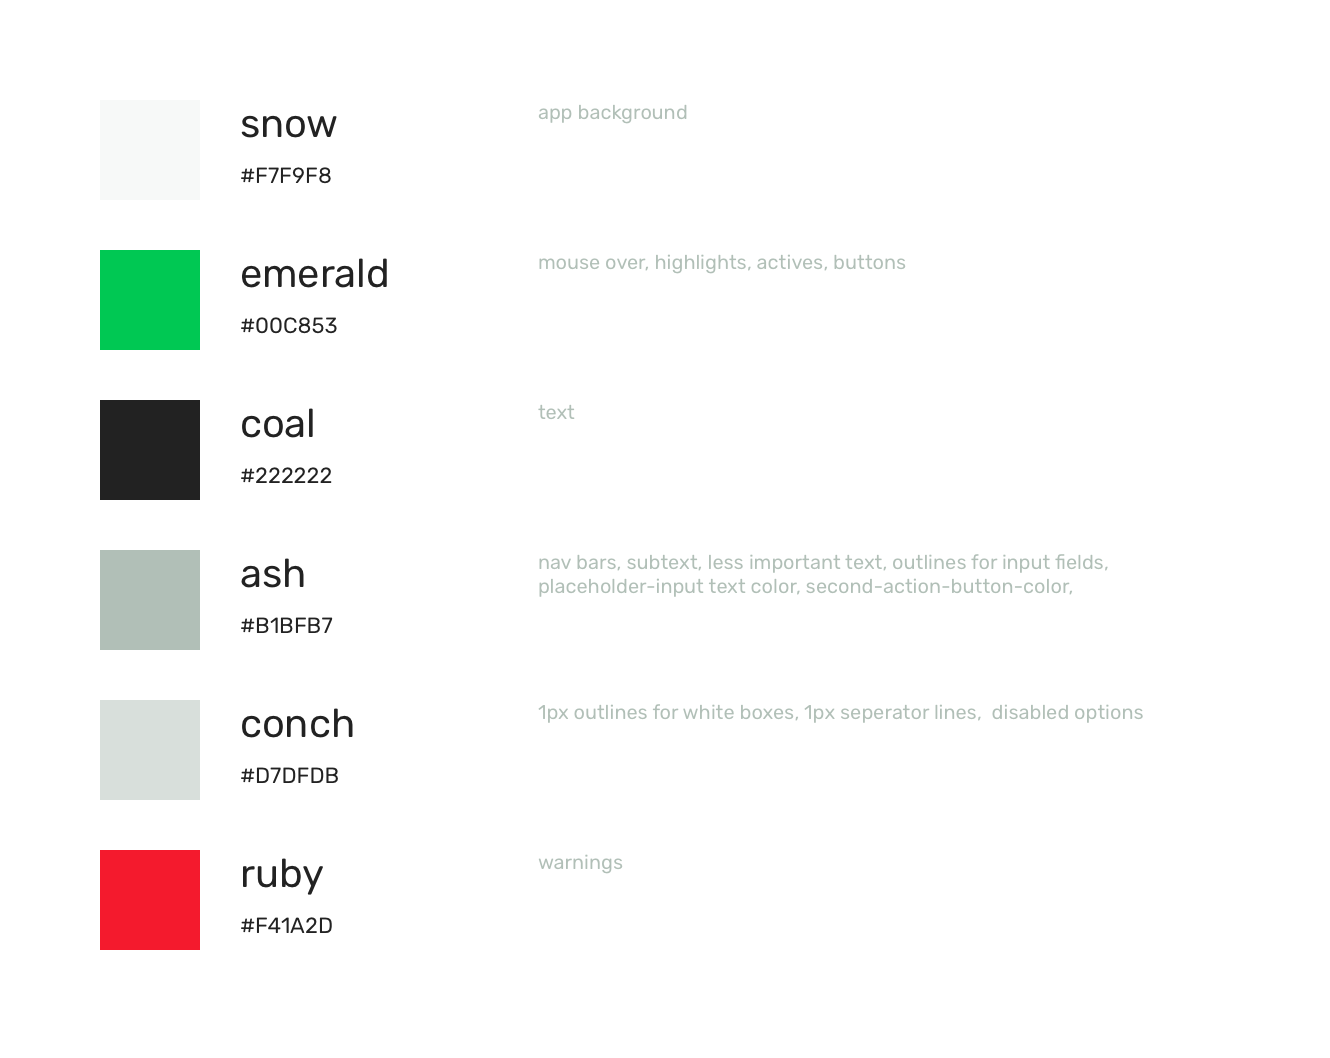
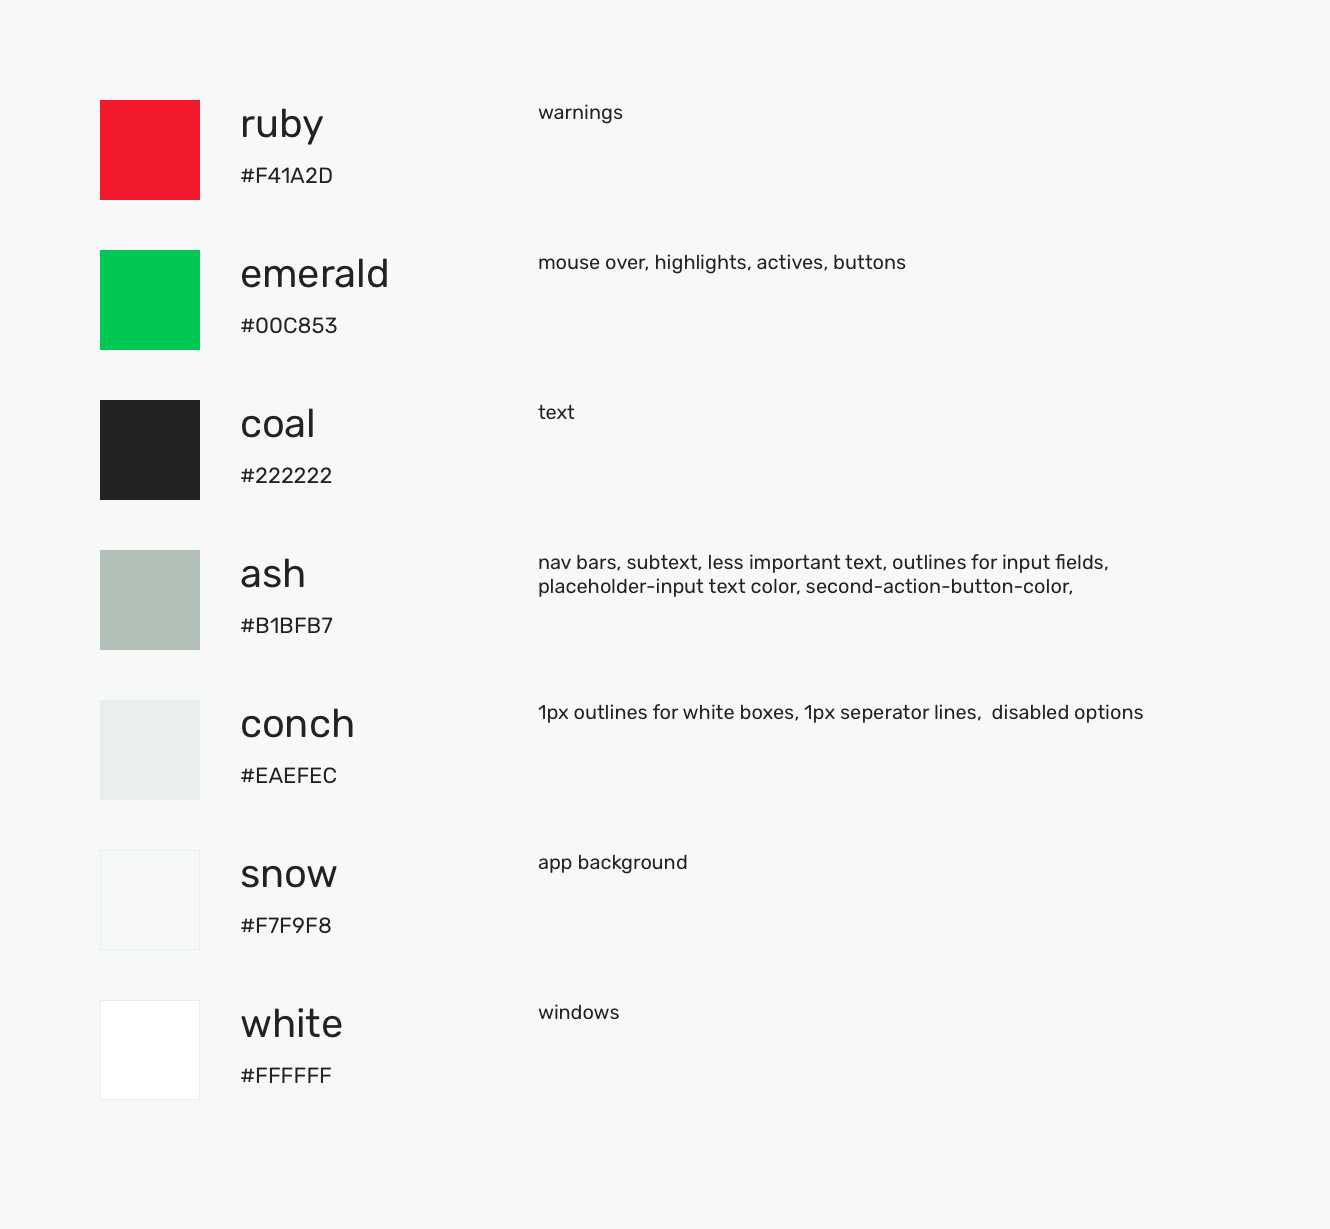
add colors

diff --git a/styleguide/readme.md b/styleguide/readme.md
@@ -5,12 +5,16 @@
 <img src="emeraldcolors.png">
 
 
-     //EMERALD COLORS
-     $snow="#F7F9F8";
-     $emerald="#00C853";
-     $coal="#222222";
-     $ash="#B1BFB7";
-     $conch="#D7DFDB";
-     $ruby="#F41A2D";
+    //EMERALD COLORS
+
+    $ruby = 	"#F41A2D";
+    $emerald = 	"#00C853";
+    $coal = 	"#222222";
+    $ash =		"#B1BFB7";
+    $conch = 	"#EAEFEC";
+    $snow = 	"#F7F9F8";
+    $white = 	"#FFFFFF";
+
+
 
 ## Typeface
